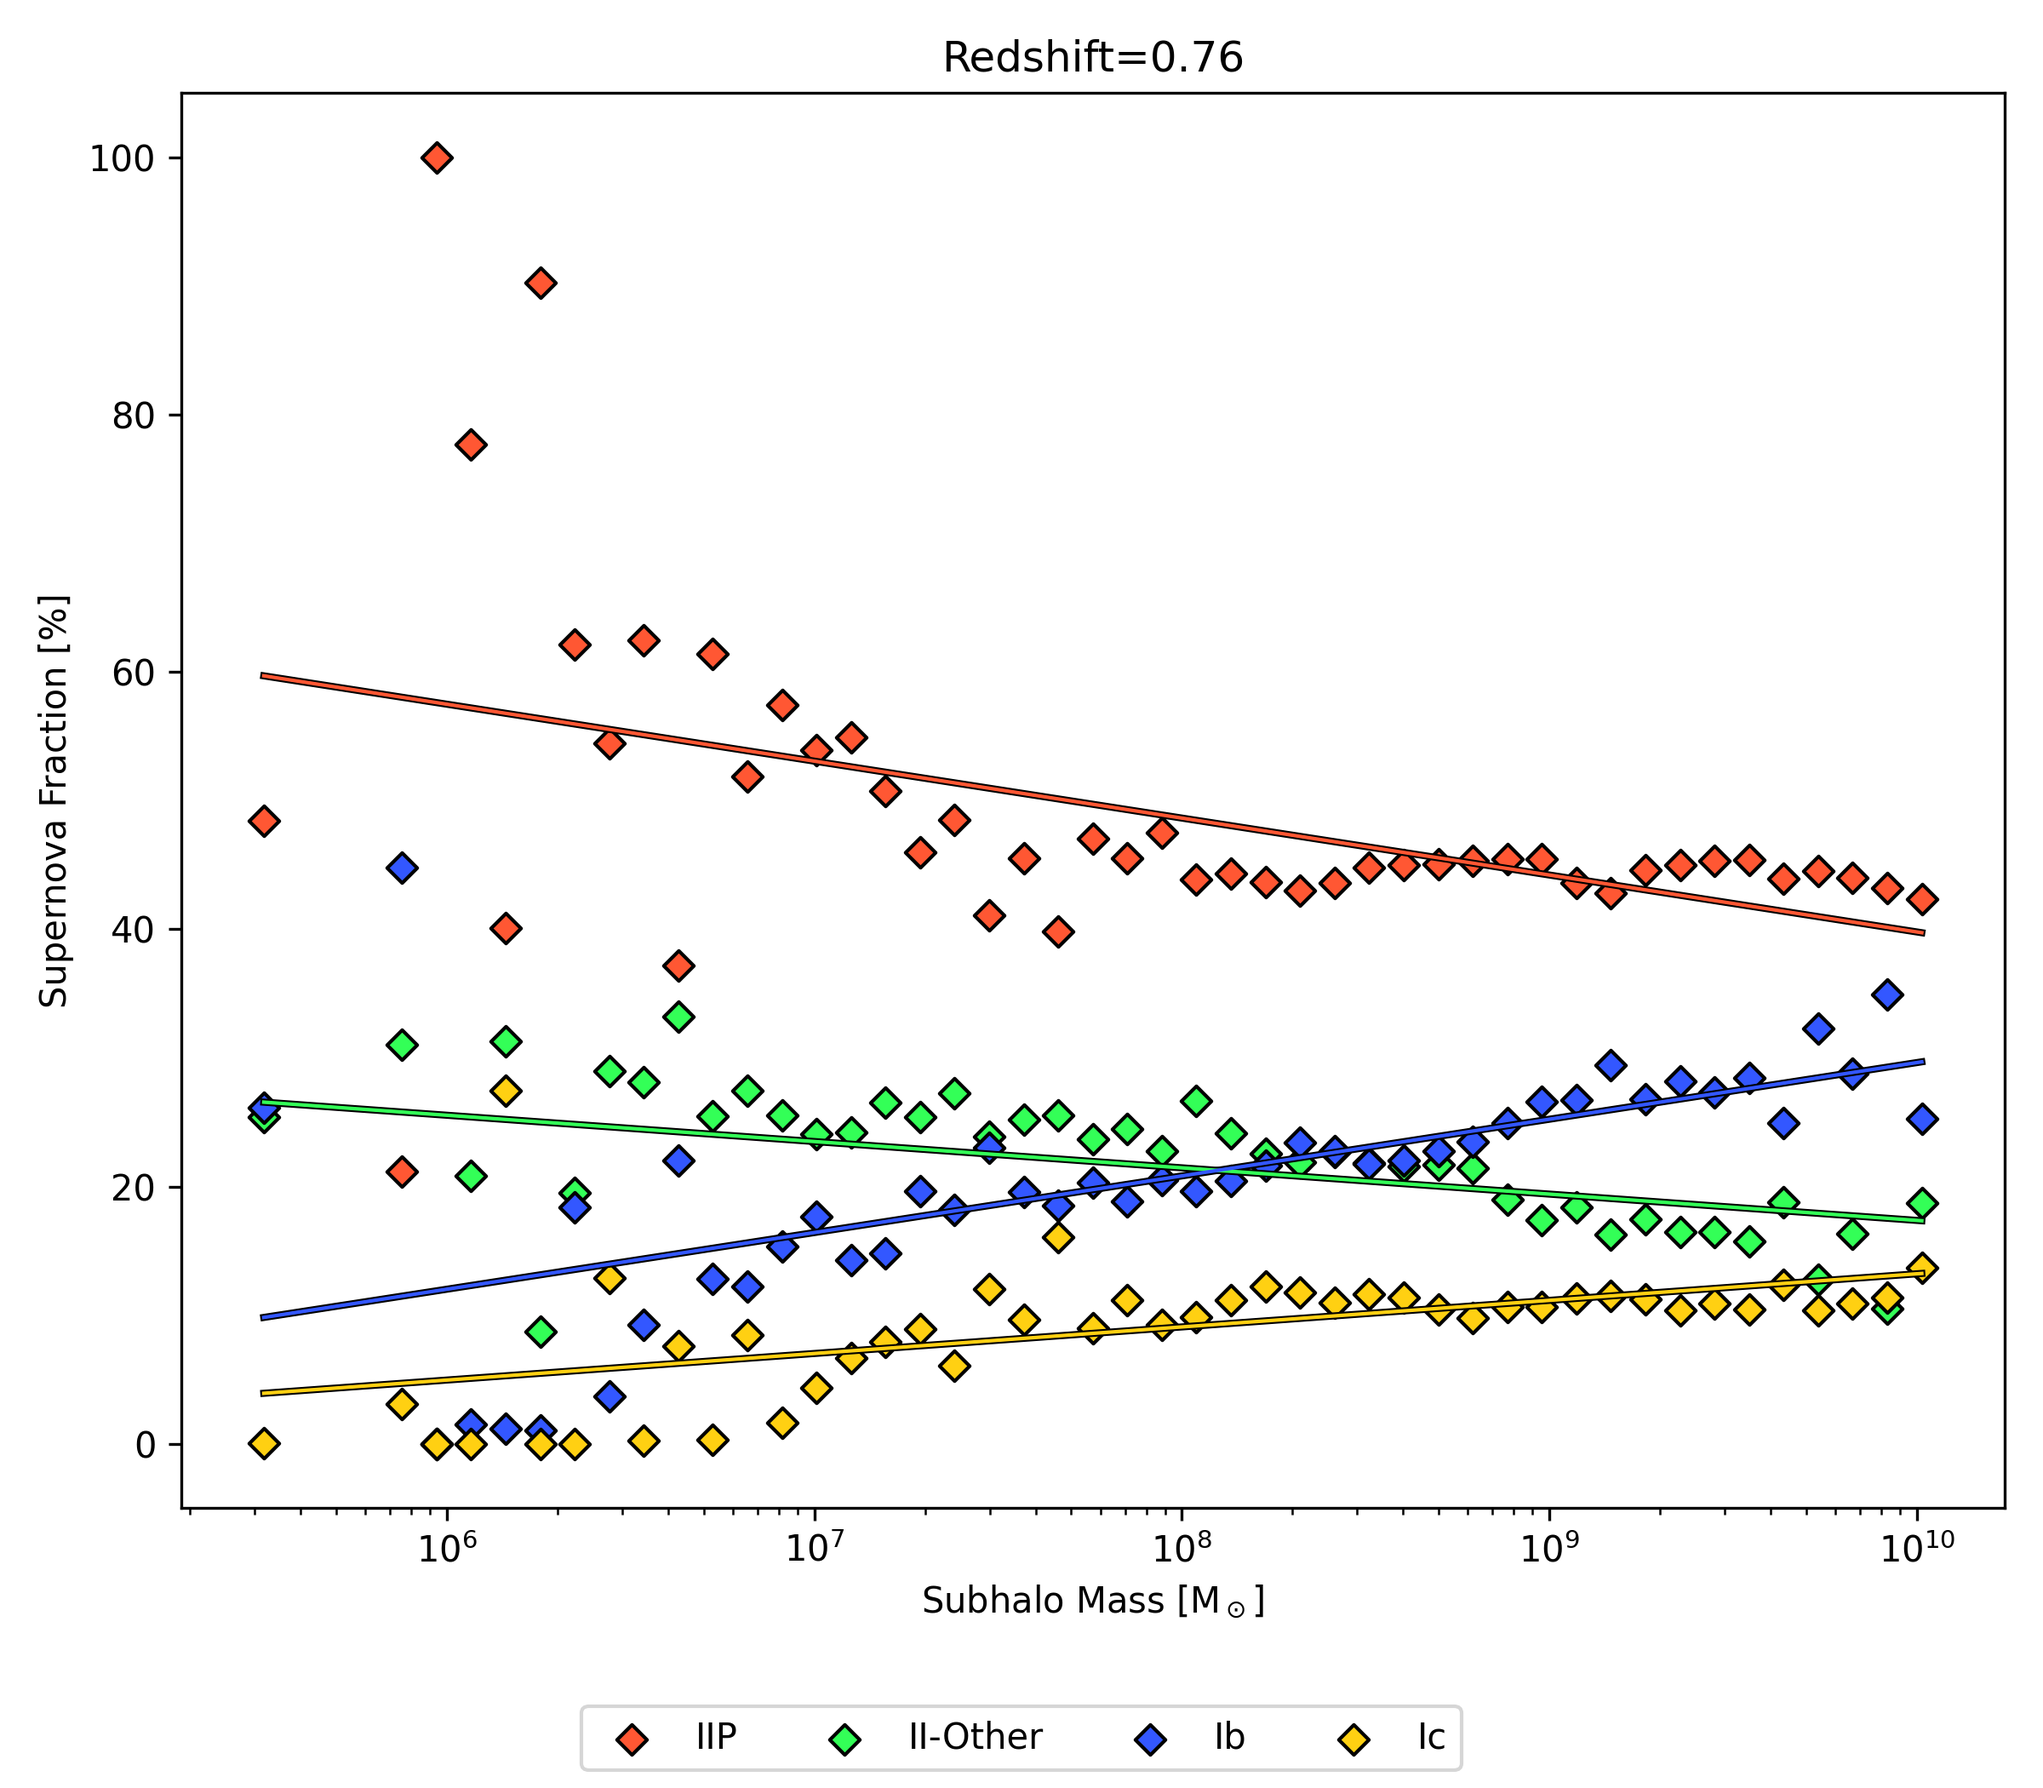
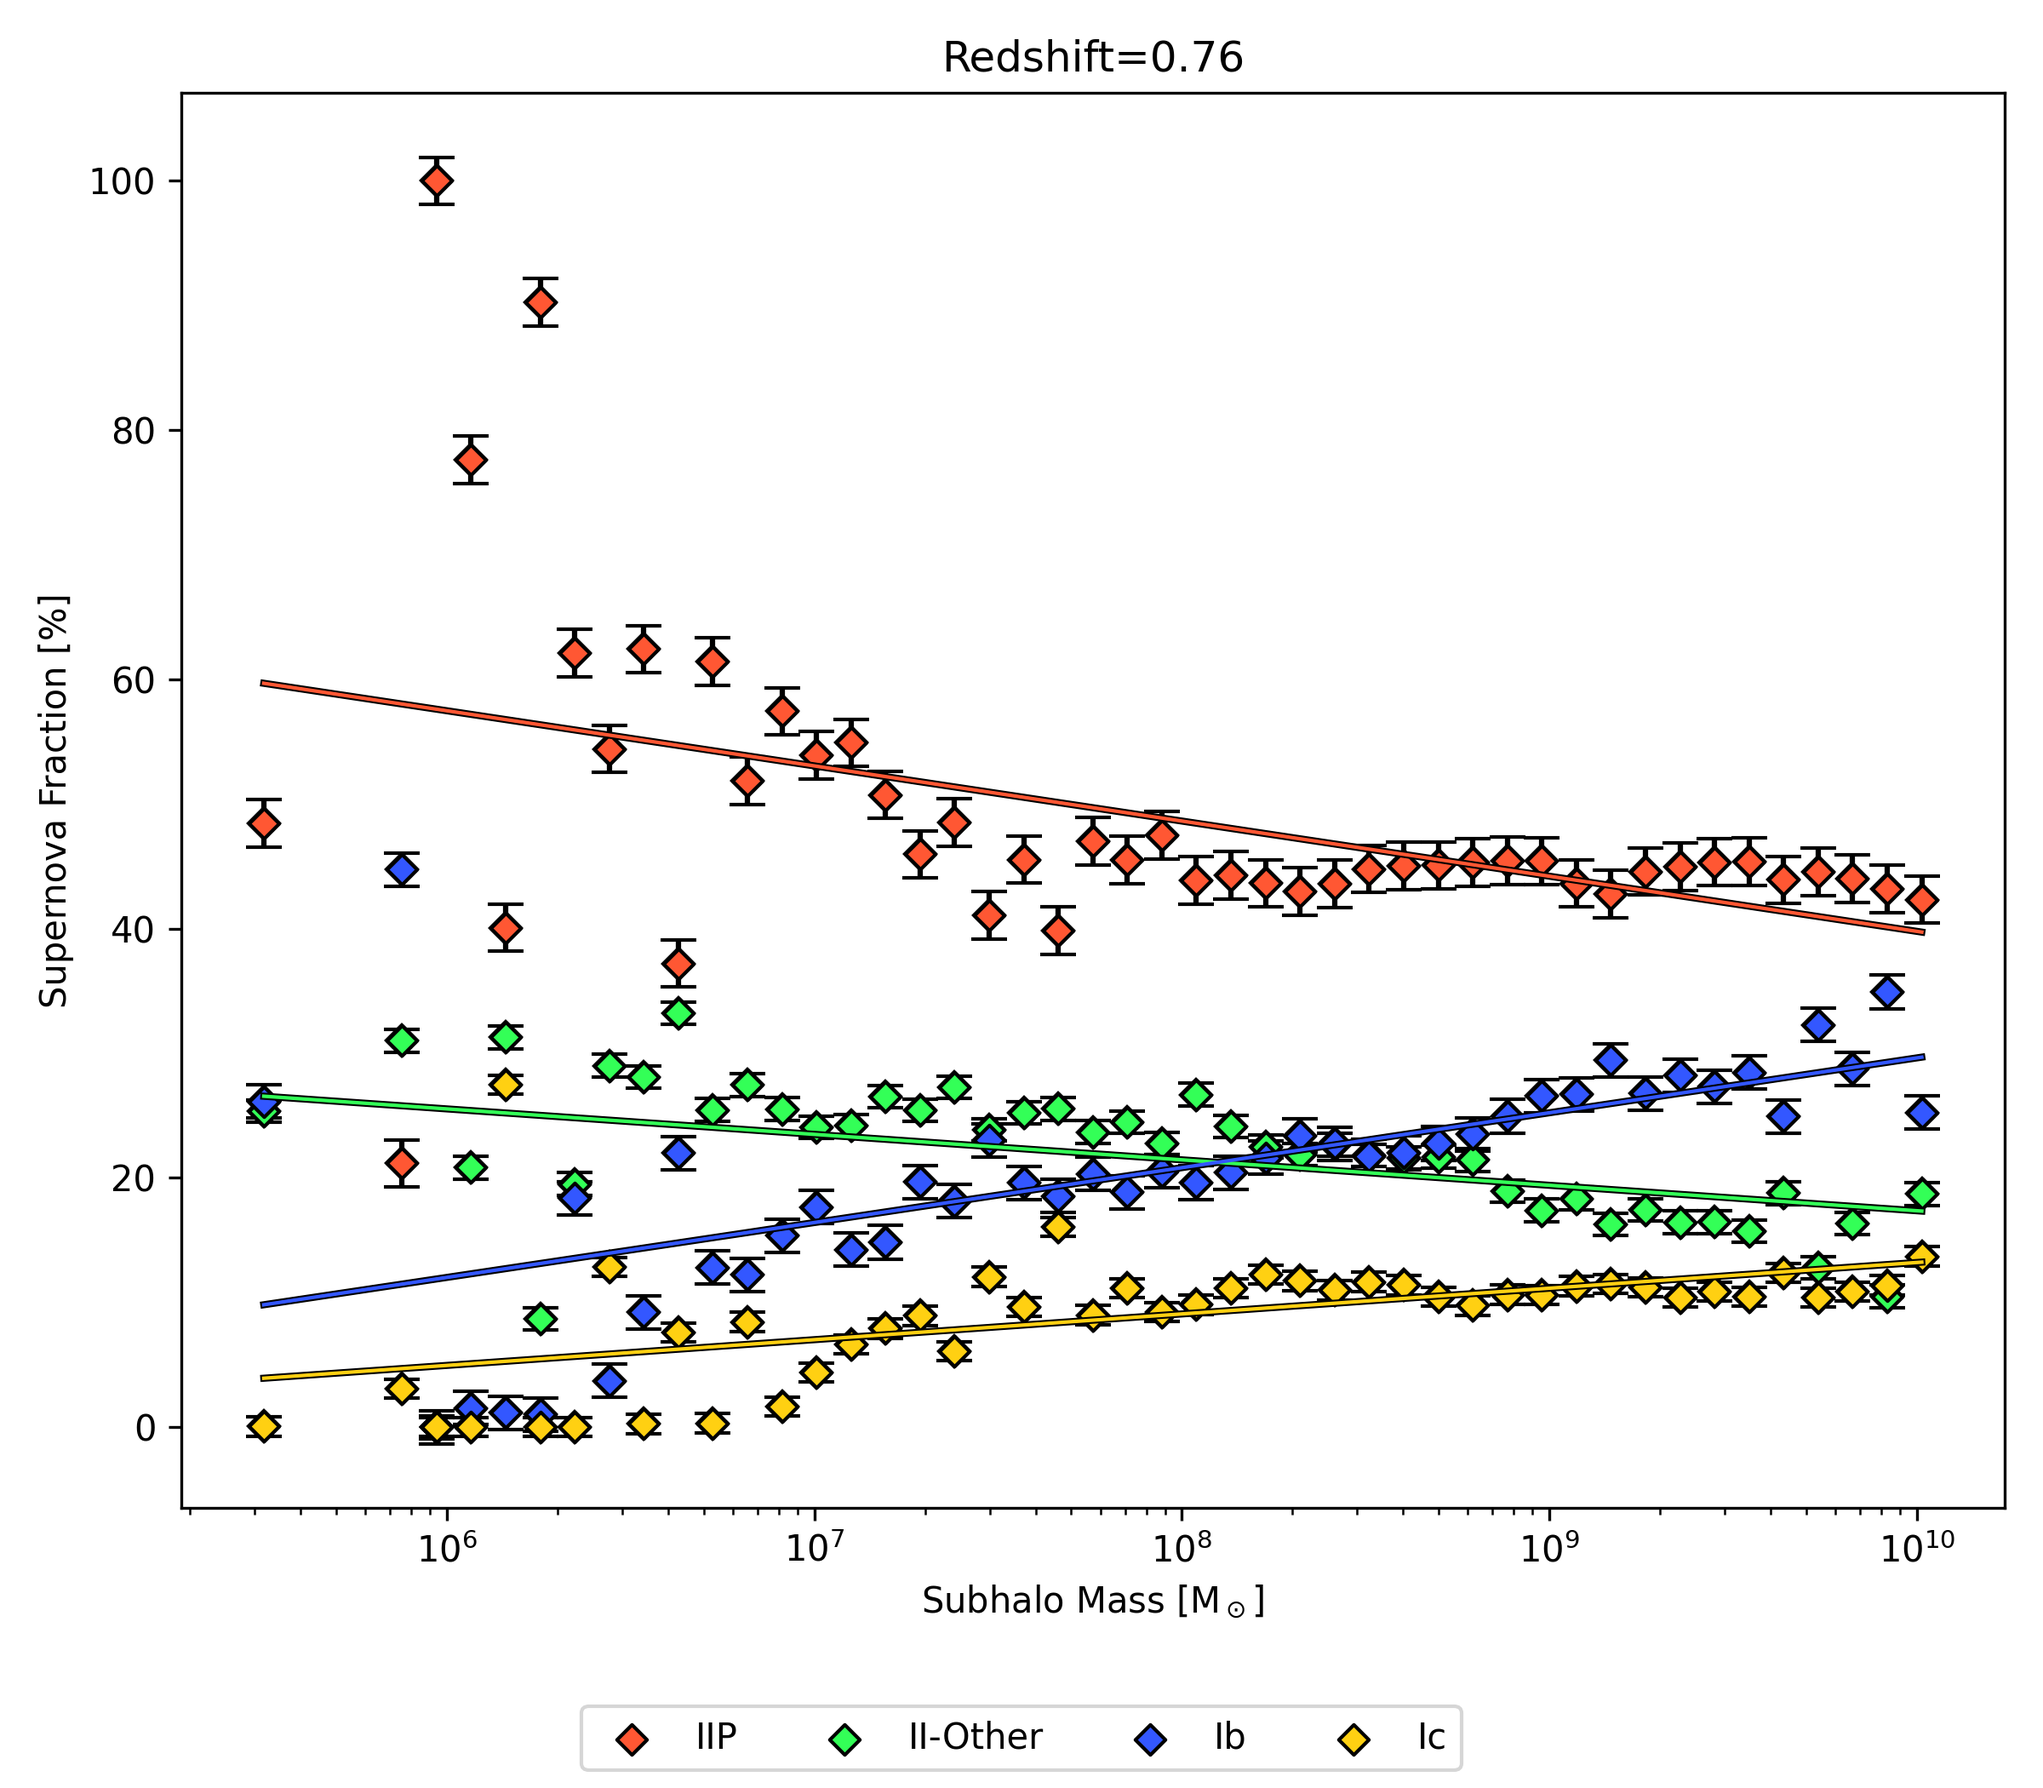
errors on halo fractions

diff --git a/halo.py b/halo.py
@@ -155,7 +155,9 @@ def redshift_bins(snaps, png_name='ratio.png', pcols=1):
             std_error_bin = std_dev_bin / np.sqrt(len(avg_ratio))
 
             # plot
-            axes_bin[i].scatter(bin_centers, avg_ratio, label=sn, color=colors[idx], marker='D', edgecolors='black')
+            axes_bin[i].errorbar(bin_centers, avg_ratio, yerr=std_error_bin, color='black', fmt='D', capsize=5, zorder=10)
+            axes_bin[i].scatter(bin_centers, avg_ratio, label=sn, color=colors[idx], marker='D', edgecolors='black', zorder=20)
+
             axes[i].errorbar(bin_centers, avg_ratio, yerr=std_error_bin, color='black', fmt='D', capsize=5, zorder=10)
             axes[i].scatter(bin_centers, avg_ratio, label=sn, color=colors[idx], marker='D', edgecolors='black', zorder=20)
 
@@ -166,10 +168,6 @@ def redshift_bins(snaps, png_name='ratio.png', pcols=1):
             #regress = linear(z_log, slope, intercept)
             print(f"    {slope:.2f} $\pm$ {std_err:.2f} & ")
             
-            #model = LinearRegression()
-            #model.fit(z_log, avg_ratio)
-            #y_pred = model.predict(z_log)
-
             axes[i].plot(bin_centers, y_pred, color='black', linewidth=2, zorder=30)  
             axes[i].plot(bin_centers, y_pred, color=colors[idx], linewidth=1, zorder=40)  
             axes_bin[i].plot(bin_centers, y_pred, color='black', linewidth=2, zorder=30) 
@@ -307,7 +305,7 @@ def run_cosmic():
         sn_err = np.std(ratio, ddof=1) / np.sqrt(len(ratio))
         print(f'  Halo: {sn}: {sn_ratio:.2f} ± {sn_err:.2f}')
 
-        
+        # combine
         
     ax.set_xlabel("Redshift")
     ax.set_ylabel("Supernova Fraction")

diff --git a/tng.py b/tng.py
@@ -841,6 +841,7 @@ for idx, item in enumerate(test_dict.items()):
 
     print(f'{name}:')
     print(f'  SN: {sn_ratio*100:.2f} ± {sn_err*100:.2f}, {sn_err_1*100:.2f}')
+    print(f'  SN With Redshift: {sn_values*100}')
     print(f'  SF: {sf_ratio*100:.2f} ± {sf_err*100:.2f}')
     ratios.append(sn_ratio)
 
